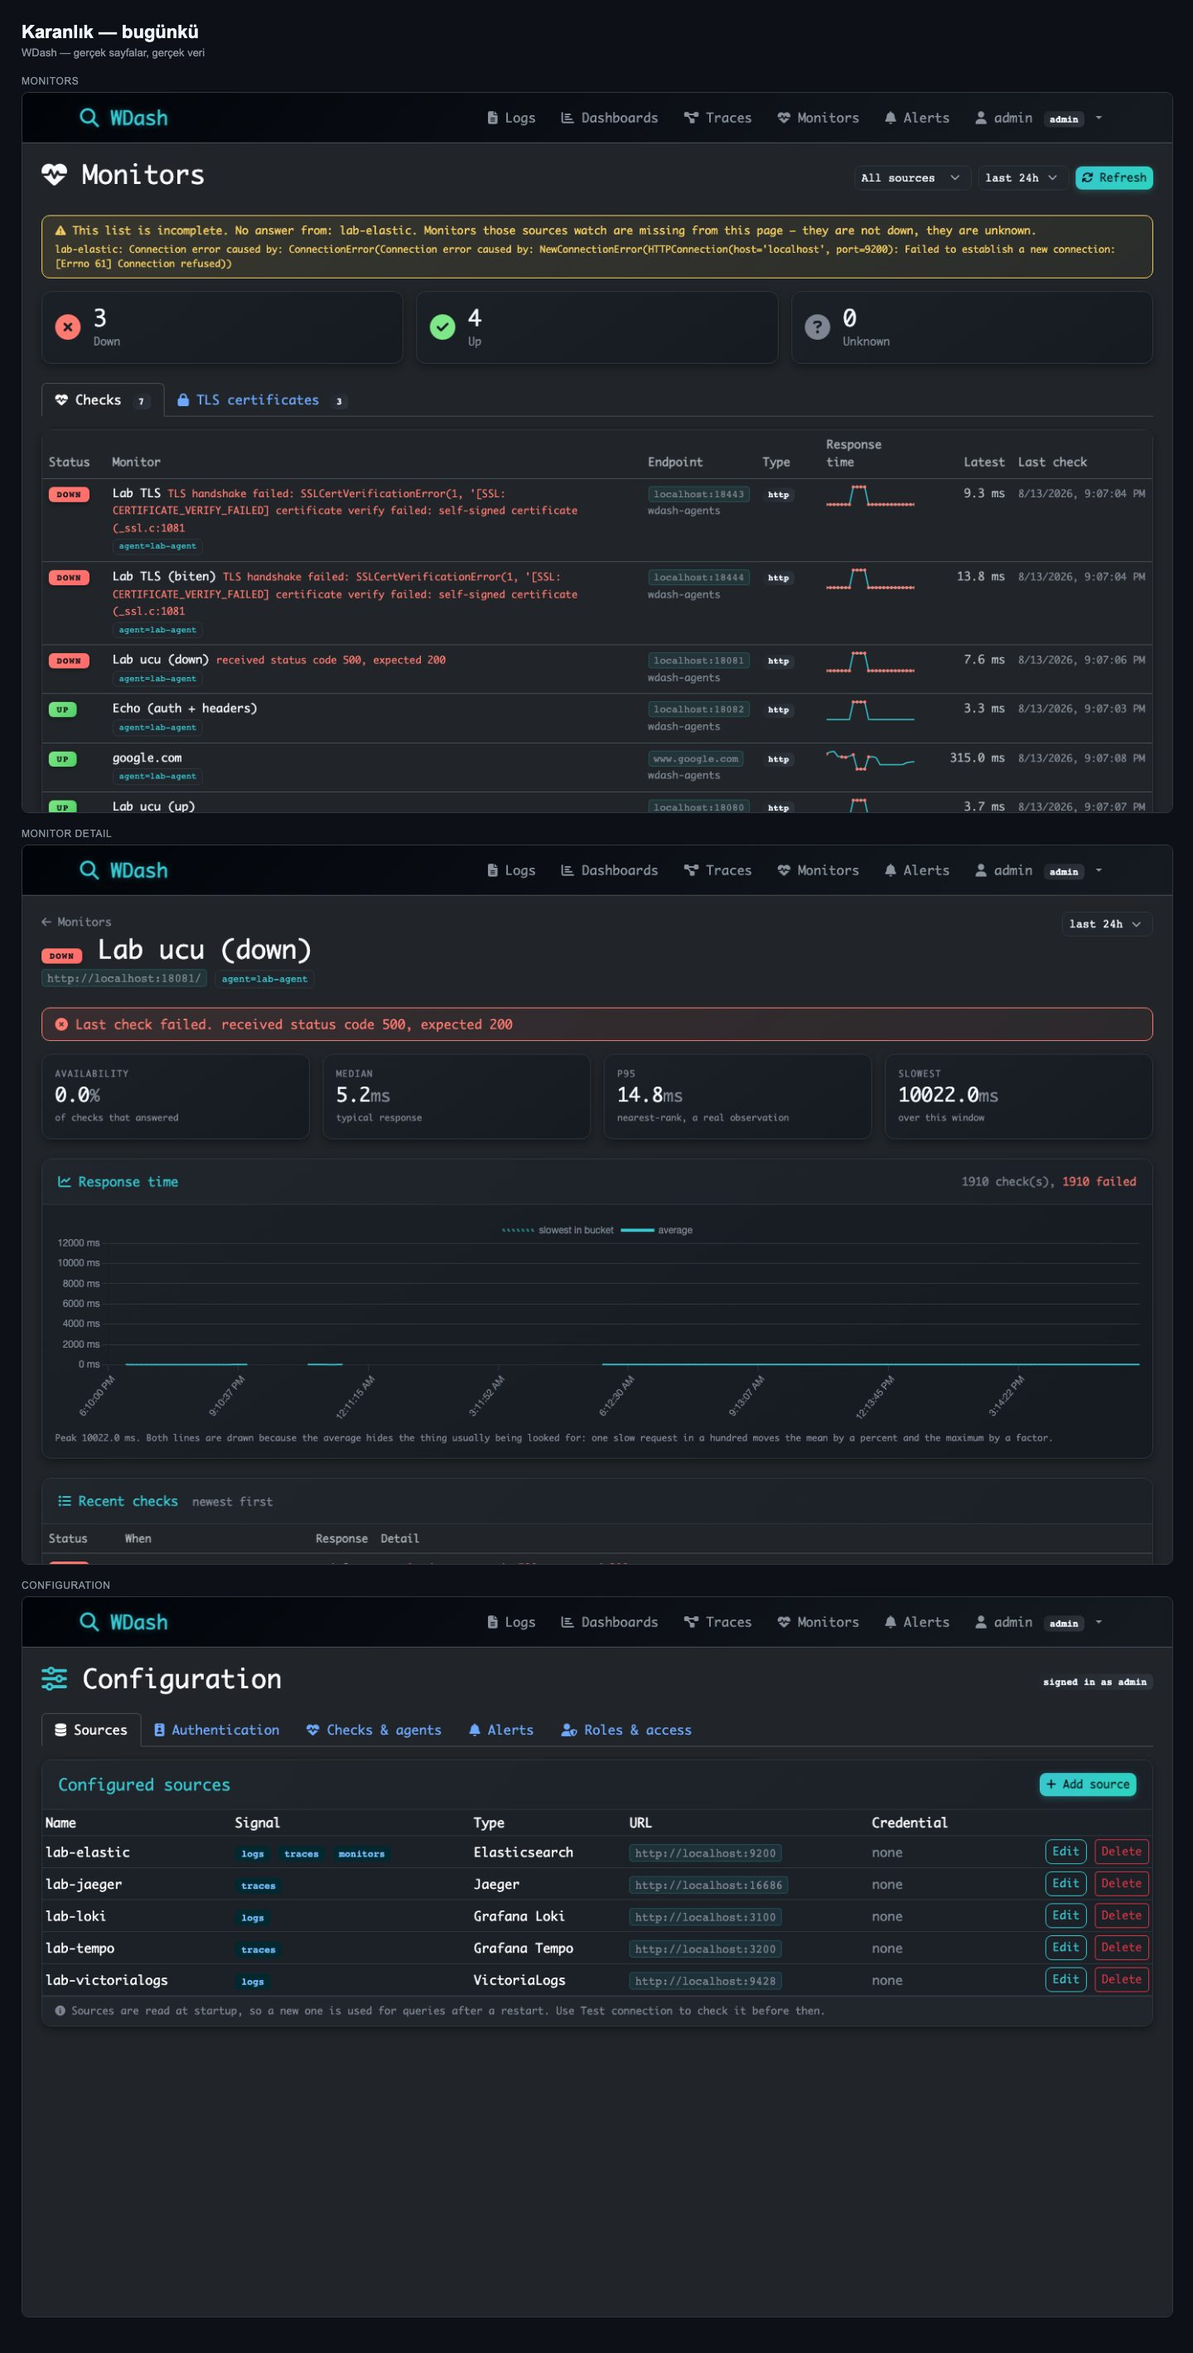
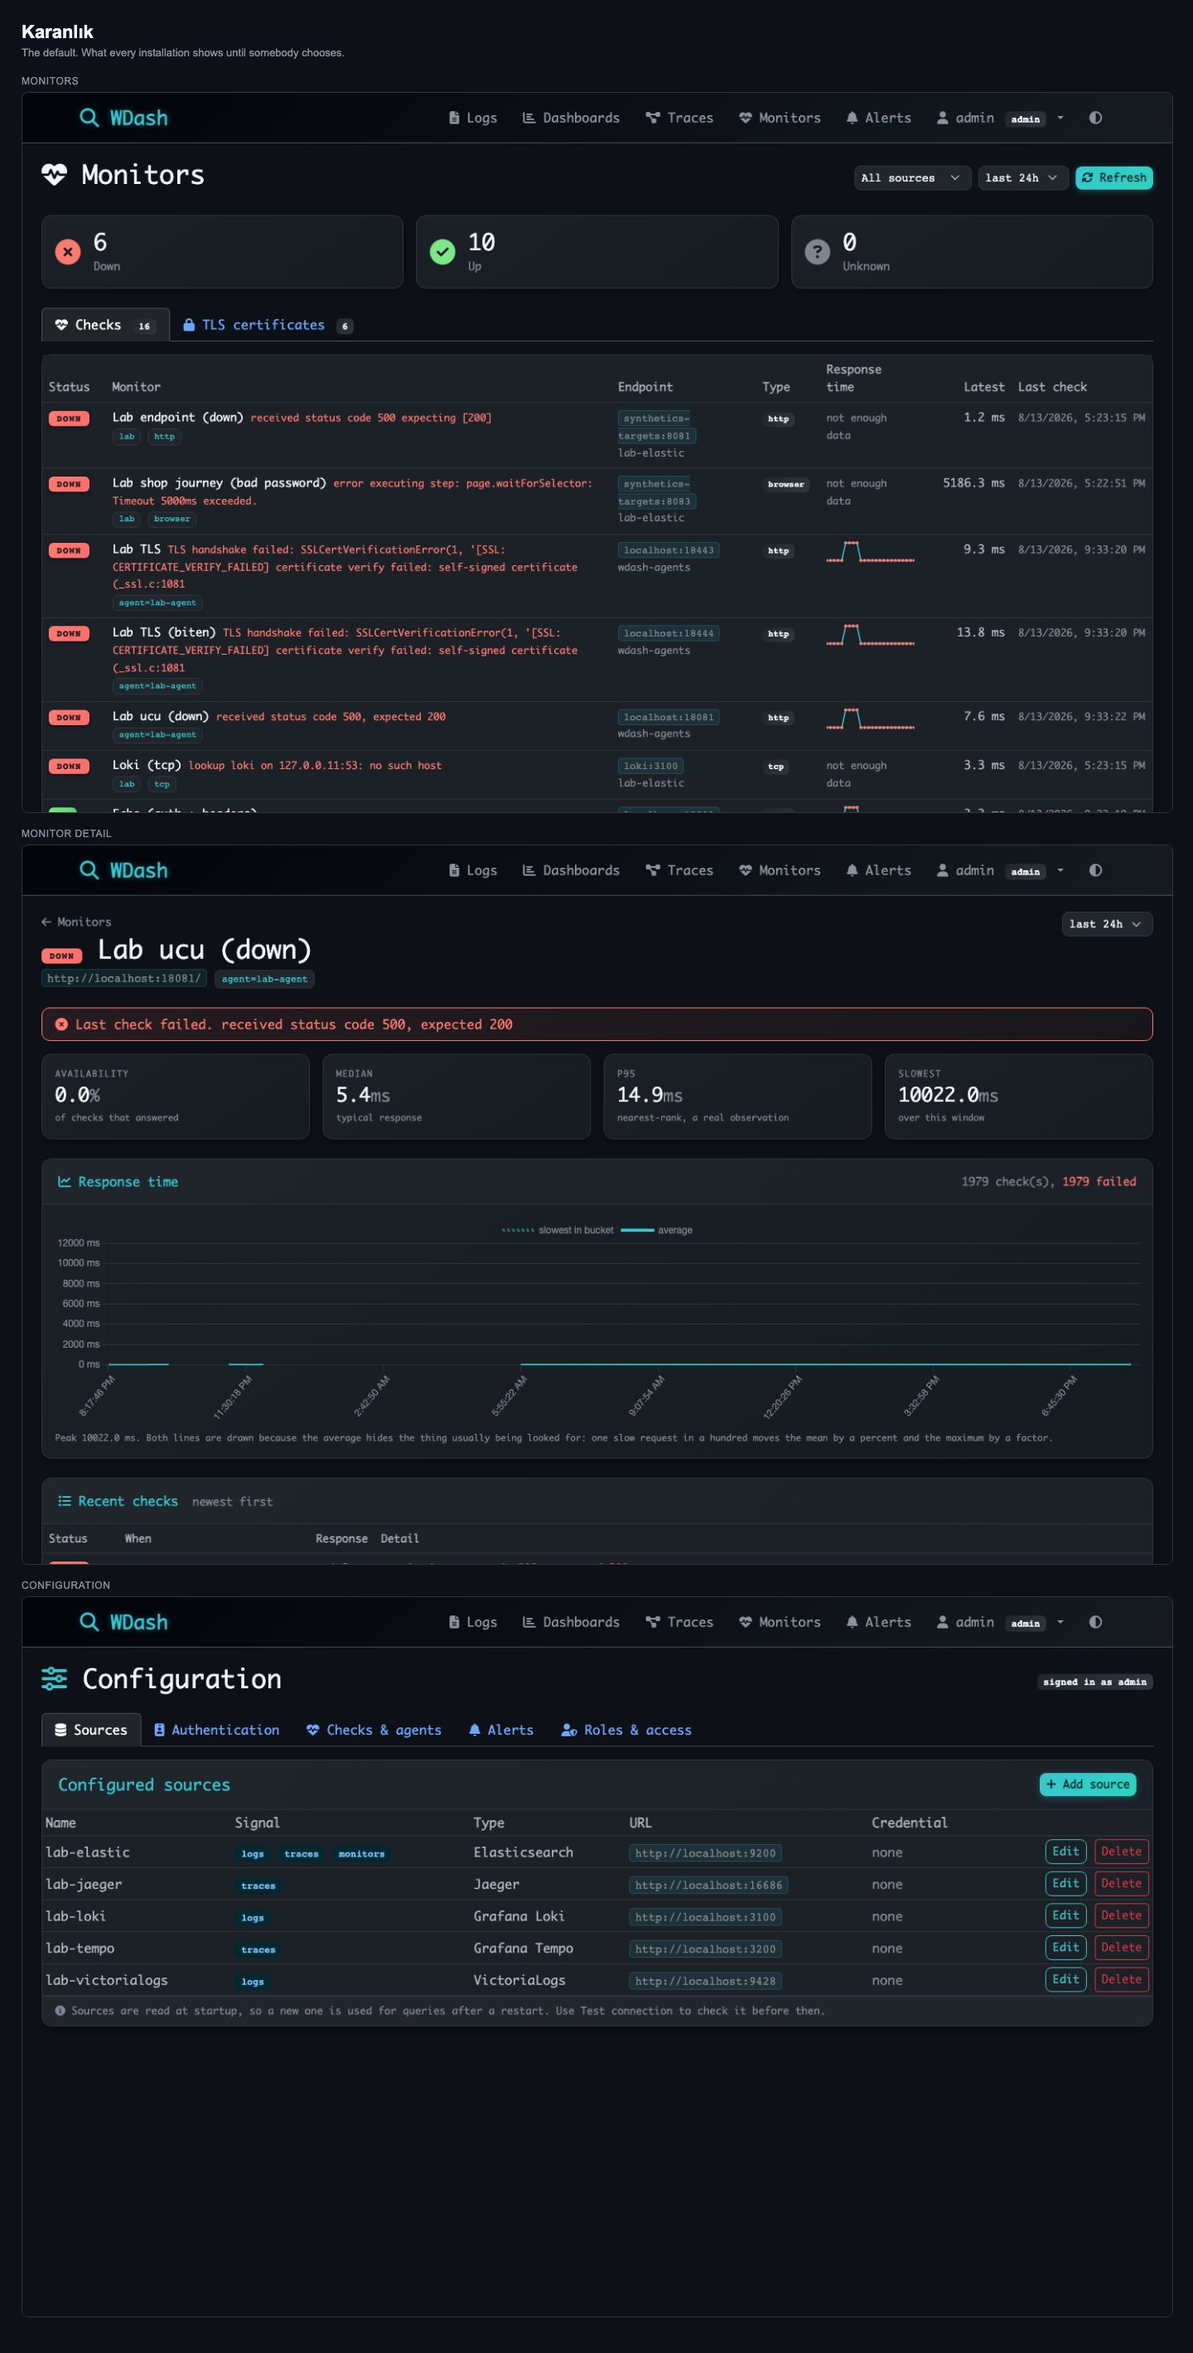
The theme sheets, taken from the themes rather than from a mock-up
Regenerated by driving the product's own switch instead of rewriting the
stylesheet on the way to the browser, which is what the first version had to
do because there was no switch to drive. The high-contrast sheet goes with
it: it was a proposal among three, and what shipped is two.

The measurement those images were made for is kept, because it is the part
worth remembering — the palette was a third of the work.

Two ratios in the table were from the preview palette rather than the one
that shipped. Recomputed with the project's own function.

Claude-Session: https://claude.ai/code/session_0133yRWKzsFSQJBDpD2bY3Mu

diff --git a/docs/themes/render.py b/docs/themes/render.py
@@ -1,15 +1,12 @@
-"""Three palettes, on the real screens, through a real browser.
+"""Screenshot each theme, on the real screens, through a real browser.
 
-What produced the images beside this file. Kept so the numbers in README.md
-can be re-measured rather than believed, and so the palettes live somewhere
-they can be edited and looked at again.
+What produced the images beside this file.
 
-Nothing here is wired into the product. A theme is a setting WDash does not
-have yet; this is what it would look like if it did.
-
-The stylesheet is rewritten on the way to the page rather than injected as a
-tag: WDash sends a Content-Security-Policy, and a theme demo that has to be
-allowed through it would be demonstrating something other than the theme.
+It drives the product's own switch — `window.wdashTheme.set(...)` — rather
+than rewriting the stylesheet on the way to the page. The first version of
+this did rewrite it, because at the time there was no switch to drive and the
+palette was only two thirds of a theme; those images and that measurement are
+described in README.md.
 
 Before running it:
 
@@ -25,18 +22,17 @@ Before running it:
        s.users.set_password('admin', 'theme-preview-only')"
 
      If the results are older than the window below, shift the copy's clock
-     forward — an empty screen says nothing about a palette.
+     forward — an empty screen says nothing about a theme.
 
   2. Run the app against the copy, on a port nothing else holds:
 
-       DATABASE_URL=sqlite:////tmp/themes.db ELASTICSEARCH_URL= \
-           WDASH_DEV_PORT=5055 python main.py
+       DATABASE_URL=sqlite:////tmp/themes.db WDASH_DEV_PORT=5055 python main.py
 
   3. python docs/themes/render.py
 """
-import tempfile
 import pathlib
 import sys
+import tempfile
 
 from playwright.sync_api import sync_playwright
 
@@ -54,162 +50,13 @@ PAGES = [
     ("Configuration", "/admin/config"),
 ]
 
-# --- the palettes ----------------------------------------------------------
-
-LIGHT = {
-    "--dark-bg": "#ffffff",
-    "--dark-bg-secondary": "#f6f8fa",
-    "--dark-bg-tertiary": "#eaeef2",
-    "--dark-card": "#ffffff",
-    "--dark-navbar": "#ffffff",
-    "--dark-input": "#ffffff",
-    "--dark-hover": "#eaeef2",
-    "--dark-text": "#1f2328",
-    "--dark-text-muted": "#5a636c",
-    "--dark-text-secondary": "#636c76",
-    "--dark-border": "#d0d7de",
-    "--dark-accent": "#1a7f37",
-    "--dark-accent-teal": "#0e7490",
-    "--dark-accent-orange": "#cf222e",
-    "--syntax-blue": "#0969da",
-    "--syntax-green": "#116329",
-    "--syntax-yellow": "#7d4e00",
-    "--syntax-red": "#cf222e",
-    "--syntax-purple": "#8250df",
-    "--syntax-cyan": "#0e7490",
-    "--primary-color": "#0969da",
-    "--success-color": "#116329",
-    "--warning-color": "#7d4e00",
-    "--danger-color": "#cf222e",
-    "--info-color": "#0969da",
-}
-
-HIGH_CONTRAST = {
-    "--dark-bg": "#000000",
-    "--dark-bg-secondary": "#000000",
-    "--dark-bg-tertiary": "#0d0d0d",
-    "--dark-card": "#000000",
-    "--dark-navbar": "#000000",
-    "--dark-input": "#000000",
-    "--dark-hover": "#1f1f1f",
-    "--dark-text": "#ffffff",
-    "--dark-text-muted": "#d6d6d6",
-    "--dark-text-secondary": "#e6e6e6",
-    "--dark-border": "#9aa0a6",
-    "--dark-accent": "#4ade80",
-    "--dark-accent-teal": "#67e8f9",
-    "--dark-accent-orange": "#ff8a80",
-    "--syntax-blue": "#8ab4ff",
-    "--syntax-green": "#4ade80",
-    "--syntax-yellow": "#ffd54f",
-    "--syntax-red": "#ff8a80",
-    "--syntax-purple": "#e0b0ff",
-    "--syntax-cyan": "#67e8f9",
-    "--primary-color": "#67e8f9",
-    "--success-color": "#4ade80",
-    "--warning-color": "#ffd54f",
-    "--danger-color": "#ff8a80",
-    "--info-color": "#8ab4ff",
-}
-
-# Colours written as literals rather than as tokens, patched so the demo shows
-# a finished theme instead of a half-tokenised one. The COUNT of these is the
-# estimate: this is the work a theme needs before it is a setting.
-LIGHT_LEFTOVERS = """
-.navbar { background: var(--dark-navbar) !important;
-          border-bottom: 1px solid var(--dark-border); }
-.card, .table { --bs-table-bg: transparent; }
-.journey-step.passed { color: #116329;
-    border-color: rgba(17,99,41,.4); background: rgba(17,99,41,.08); }
-.journey-step.failed { color: #cf222e;
-    border-color: rgba(207,34,46,.45); background: rgba(207,34,46,.10); }
-.journey-step.skipped { color: #5a636c;
-    border-color: rgba(90,99,108,.35); background: transparent; }
-.monitor-status.up { color: #116329; background: rgba(17,99,41,.10); }
-.monitor-status.down { color: #cf222e; background: rgba(207,34,46,.12); }
-.monitor-row-down { background: rgba(207,34,46,.06) !important; }
-
-/* `.table table-dark` is in six templates and three scripts: another fixed
-   dark, and this one hides its own text — white on white — rather than
-   merely being the wrong shade. */
-.table-dark { --bs-table-color: var(--dark-text);
-              --bs-table-bg: transparent;
-              --bs-table-border-color: var(--dark-border);
-              --bs-table-striped-color: var(--dark-text);
-              --bs-table-hover-color: var(--dark-text);
-              --bs-table-hover-bg: var(--dark-hover);
-              color: var(--dark-text); }
-.table-dark > :not(caption) > * > * { color: var(--dark-text); }
-"""
-
-HIGH_CONTRAST_LEFTOVERS = """
-.navbar { background: var(--dark-navbar) !important;
-          border-bottom: 1px solid var(--dark-border); }
-.journey-step.passed { color: #4ade80; border-color: #4ade80; }
-.journey-step.failed { color: #ff8a80; border-color: #ff8a80; }
-.journey-step.skipped { color: #d6d6d6; border-color: #9aa0a6; }
-.monitor-status.up { color: #4ade80; background: transparent;
-    border: 1px solid #4ade80; }
-.monitor-status.down { color: #ff8a80; background: transparent;
-    border: 1px solid #ff8a80; }
-.table-dark { --bs-table-color: var(--dark-text);
-              --bs-table-bg: transparent;
-              --bs-table-border-color: var(--dark-border);
-              --bs-table-hover-bg: var(--dark-hover); }
-.table-dark > :not(caption) > * > * { color: var(--dark-text); }
-"""
-
 THEMES = [
-    ("1-karanlik", "Karanlık — bugünkü", "dark", {}, ""),
-    ("2-acik", "Açık", "light", LIGHT, LIGHT_LEFTOVERS),
-    ("3-yuksek-kontrast", "Yüksek kontrast", "dark", HIGH_CONTRAST,
-     HIGH_CONTRAST_LEFTOVERS),
+    ("1-karanlik", "Karanlık", "dark",
+     "The default. What every installation shows until somebody chooses."),
+    ("2-acik", "Açık", "light",
+     "A palette and nothing else — no rule outside it knows which theme it "
+     "is in."),
 ]
-
-
-def override(palette, leftovers):
-    if not palette and not leftovers:
-        return ""
-    block = "\n".join(f"    {name}: {value};"
-                      for name, value in palette.items())
-    return f"\n\n/* theme preview */\n:root {{\n{block}\n}}\n{leftovers}"
-
-
-def shoot(page, slug, bootstrap, palette, leftovers):
-    css = override(palette, leftovers)
-
-    def rewrite(route):
-        response = route.fetch()
-        route.fulfill(response=response, body=response.text() + css,
-                      headers={**response.headers,
-                               "content-type": "text/css"})
-
-    page.unroute_all()
-    if css:
-        page.route("**/wdash.css*", rewrite)
-
-    files = []
-    for name, path in PAGES:
-        page.goto(BASE + path, wait_until="networkidle")
-        page.evaluate("""t => {
-            document.documentElement.setAttribute('data-bs-theme', t.bootstrap);
-            if (t.strip) {
-                // `<body class="bg-dark text-light">` and the navbar's
-                // `navbar-dark bg-dark`. Bootstrap's utilities are a FIXED
-                // dark with !important, so they override every token the
-                // palette sets — the theme is nailed down in the template,
-                // not only in the stylesheet.
-                document.body.classList.remove('bg-dark', 'text-light');
-                document.querySelectorAll('.navbar').forEach(n =>
-                    n.classList.remove('navbar-dark', 'bg-dark'));
-            }
-        }""", {"bootstrap": bootstrap, "strip": bool(palette)})
-        page.wait_for_timeout(350)
-        target = SHOTS / f"{slug}-{name.lower().replace(' ', '-')}.png"
-        page.screenshot(path=str(target))
-        files.append((name, target))
-    return files
-
 
 SHEET = """
 <html><head><meta charset="utf-8"><style>
@@ -229,6 +76,19 @@ SHEET = """
 """
 
 
+def shoot(page, slug, theme):
+    page.goto(BASE + PAGES[0][1], wait_until="networkidle")
+    page.evaluate("theme => window.wdashTheme.set(theme)", theme)
+    files = []
+    for name, path in PAGES:
+        page.goto(BASE + path, wait_until="networkidle")
+        page.wait_for_timeout(400)
+        target = SHOTS / f"{slug}-{name.lower().replace(' ', '-')}.png"
+        page.screenshot(path=str(target))
+        files.append((name, target))
+    return files
+
+
 def sheet(page, slug, title, sub, files, light):
     figures = "\n".join(
         f'<figure><figcaption>{name}</figcaption>'
@@ -241,19 +101,17 @@ def sheet(page, slug, title, sub, files, light):
         edge="#d0d7de" if light else "#30363d")
     path = SHOTS / f"{slug}-sheet.html"
     path.write_text(html)
-    page.unroute_all()
     page.goto(f"file://{path}", wait_until="load")
     page.wait_for_timeout(400)
     OUT.mkdir(parents=True, exist_ok=True)
-    # JPEG: the same sheet as a PNG is about 1.8MB, and three of those is
-    # five megabytes of screenshot in a repository whose point is the code.
+    # JPEG at one device pixel: the same sheets as PNG at 2x are five
+    # megabytes of screenshot in a repository whose point is the code.
     page.screenshot(path=str(OUT / f"{slug}.jpg"), full_page=True,
                     type="jpeg", quality=82)
     print("wrote", OUT / f"{slug}.jpg")
 
 
 def main():
-    SHOTS.mkdir(parents=True, exist_ok=True)
     with sync_playwright() as playwright:
         browser = playwright.chromium.launch()
         page = browser.new_page(viewport={"width": 1440, "height": 900},
@@ -266,11 +124,9 @@ def main():
         if "login" in page.url:
             sys.exit("could not sign in")
 
-        for slug, title, bootstrap, palette, leftovers in THEMES:
-            files = shoot(page, slug, bootstrap, palette, leftovers)
-            sheet(page, slug, title,
-                  "WDash — gerçek sayfalar, gerçek veri",
-                  files, light=(bootstrap == "light"))
+        for slug, title, theme, sub in THEMES:
+            files = shoot(page, slug, theme)
+            sheet(page, slug, title, sub, files, light=(theme == "light"))
         browser.close()
 
 

diff --git a/docs/themes/README.md b/docs/themes/README.md
@@ -1,29 +1,24 @@
-# Three themes, on the real screens
-
-Examples for the phase-4 question in [ROADMAP.md](../../ROADMAP.md): WDash has
-one palette and it is dark. These are what the alternatives look like.
+# The themes
 
 | | |
 |---|---|
-| [`1-karanlik.jpg`](1-karanlik.jpg) | **Karanlık** — today's, unchanged. The reference to compare against. |
-| [`2-acik.jpg`](2-acik.jpg) | **Açık** — a light theme. |
-| [`3-yuksek-kontrast.jpg`](3-yuksek-kontrast.jpg) | **Yüksek kontrast** — pure black, brighter accents, outlined chips. |
+| [`1-karanlik.jpg`](1-karanlik.jpg) | **Dark** — the default. What every installation shows until somebody chooses. |
+| [`2-acik.jpg`](2-acik.jpg) | **Light** |
+
+The navbar carries a third option, *Follow system*, which is one of these two
+depending on the desktop and switches while the page is open.
 
 Each sheet is the same three pages — the monitor list, one monitor's detail,
 and the configuration screen — rendered by a real Chromium against a real
-running WDash, on a copy of a real database. Not mock-ups: the failing TLS
-checks, the 10,022 ms peak and the five configured sources are all things that
-happened.
+running WDash, on a copy of a real database, driving the product's own switch.
+`render.py` beside this file is what produced them.
 
-Nothing in `src/`, `static/` or `templates/` was changed to produce them.
-`render.py` beside this file rewrites the stylesheet on its way to the browser
-and puts the classes back the way a real theme would have to.
+## What it cost, measured before it was built
 
-## What it cost, measured — and since done
-
-These images were made before any of it, by rewriting the stylesheet on its
-way to the browser. Rendering them is what measured the work, and the palette
-turned out to be the smaller half:
+These started as a question rather than a result. Three palettes were pushed
+into the running product by rewriting the stylesheet on its way to the
+browser, to find out what a theme would actually take — and the palette turned
+out to be the smaller half:
 
 * **24 fixed-theme Bootstrap classes**, in six templates and three scripts.
   `<body class="bg-dark text-light">` was the important one: `.bg-dark` is a
@@ -34,39 +29,42 @@ turned out to be the smaller half:
   background the sources table rendered white on white.
 * **About a hundred literal colours** — 33 hex and 68 `rgb()`/`rgba()`
   outside `:root` in the stylesheet, against 250 uses of `var()`, plus the
-  chart colours in the scripts, which no test about colour had ever read.
+  chart colours in the scripts, which no test about colour had ever read. The
+  gridlines were `#30363d`, a shade of a dark background, invisible on white.
 
-Both are done: every colour now comes from the palette, and no template or
-script names a theme. `tests/test_contrast.py` fails on either coming back.
-One thing the removal exposed is worth knowing — `.bg-dark` on `<body>` had
-been painting the page Bootstrap's `#212529` all along, while
-`--surface-page` said `#0d1117`. The token and the page disagreed, and the
-token lost.
+So the order of work was: name the tokens for their role, move every colour
+into the palette, take the fixed classes out of the templates, and only then
+add a theme. `tests/test_contrast.py` fails on any of it coming back.
+
+One thing the removal exposed is worth keeping: `.bg-dark` on `<body>` had
+been painting the page Bootstrap's `#212529` all along, while `--surface-page`
+said `#0d1117`. The token and the page disagreed for as long as both existed,
+and the page won.
 
 ## Contrast, measured
 
 Computed with the project's own `tests.test_contrast.contrast`, which is the
-WCAG 2.1 formula. AA for normal text is 4.5:1; AAA is 7:1.
+WCAG 2.1 formula. AA for normal text is 4.5:1.
 
-| | Karanlık | Açık | Yüksek kontrast |
-|---|---|---|---|
-| body text | 17.4:1 | 15.8:1 | 21.0:1 |
-| muted text on the page | 6.2:1 | 6.1:1 | 14.4:1 |
-| muted text on a card | 5.3:1 | 6.1:1 | 14.4:1 |
-| error red | 7.5:1 | 5.4:1 | 9.2:1 |
-| success green | 12.3:1 | 7.4:1 | 12.1:1 |
-| warning yellow | 12.2:1 | 7.1:1 | 14.9:1 |
-| link teal | 9.1:1 | 5.4:1 | 14.5:1 |
-| **lowest** | **5.3:1** | **5.4:1** | **9.2:1** |
+| | Dark | Light |
+|---|---|---|
+| body text | 17.4:1 | 15.8:1 |
+| muted text on a card | 5.3:1 | 6.1:1 |
+| error red | 7.5:1 | 6.6:1 |
+| success green | 12.3:1 | 7.4:1 |
+| link teal | 9.1:1 | 5.4:1 |
 
-All three pass AA everywhere measured. Only the high-contrast one passes AAA
-everywhere — which is the argument for it existing: not that it looks better,
-but that a projector, a bright room and a bad screen are all real.
+Every value in both palettes is measured by the suite, not by this table: the
+measuring test classes take their palette from a class attribute and are
+generated once per theme in the stylesheet, so a third theme is measured by
+all of them the day it is added.
 
-The light palette is the one to watch. Its accents had to be darkened well
-past their dark-theme equivalents to clear AA on white — `#7ee787` green is
-1.5:1 on white and unusable, so it became `#116329` at 7.4:1.
-A light theme is not the dark one with the background flipped, and the same is
-true of the tests: `test_contrast.py` reads one `:root` today and would have
-to hold every theme that exists, or it would be checking whichever one
-happened to be first.
+A light theme is not the dark one with the background flipped. Its accents had
+to be darkened well past their dark-theme equivalents — the success green is
+`#7ee787` at 1.5:1 on white — and the red had to go darker still, because
+`#cf222e` measures 4.40:1 against its own 12% tint on a white card, which is
+where the expiry chip and the down-row wash put it.
+
+What does NOT change between themes is as deliberate: the `--fill-*` colours
+and `--text-on-fill`. A chip is a bright shape with dark text on it, and that
+reads on white as well as it reads on black.
